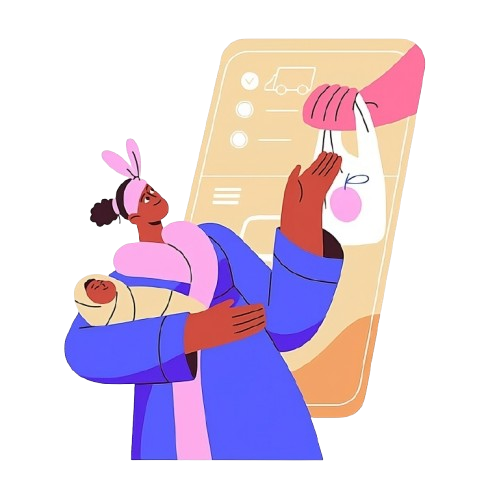
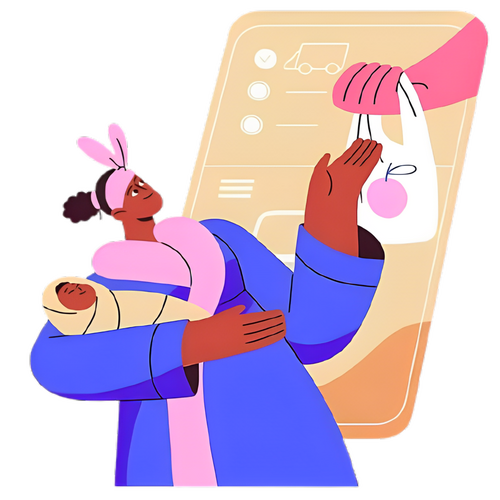
:)

diff --git a/client/src/components/Home_/TheCenterPart.jsx b/client/src/components/Home_/TheCenterPart.jsx
@@ -174,7 +174,7 @@ function TheCenterPart() {
         animate={{ opacity: 1, scale: 1 }}
         transition={{ duration: 1, repeatType: "mirror", infinite: true }}
       >
-        <img src="./image/MotherHeroSectionImage (1).png" alt="" />
+        <img src="./image/MotherHeroSectionImage.png" alt="" />
       </motion.div>
     </main>
   );
